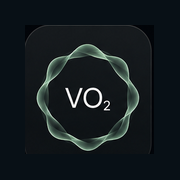
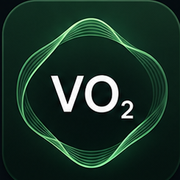
Add files via upload

diff --git a/index.html b/index.html
@@ -8,11 +8,11 @@
   <meta name="apple-mobile-web-app-status-bar-style" content="black-translucent">
   <meta name="apple-mobile-web-app-title" content="VO₂ Breathe">
   <meta name="description" content="Track VO₂ max, train aerobic fitness, and practice performance-focused breathing.">
-  <meta name="vo2-breathe-build" content="7.10.0">
+  <meta name="vo2-breathe-build" content="7.10.1">
   <link rel="manifest" href="./manifest.webmanifest">
-  <link rel="icon" href="./icon-192-v710.png">
-  <link rel="apple-touch-icon" href="./apple-touch-icon-v710.png">
-  <link rel="stylesheet" href="./styles-v7-9.css?v=7.10.0">
+  <link rel="icon" href="./forest-nebula-192.png?v=7.10.1">
+  <link rel="apple-touch-icon" href="./apple-touch-icon.png?v=7.10.1">
+  <link rel="stylesheet" href="./styles-v7-9.css?v=7.10.1">
   <title>VO₂ Breathe</title>
 </head>
 <body>
@@ -576,7 +576,7 @@
       </div>
     </div>
     <div id="toast" class="toast" role="status" aria-live="polite"></div>
-<script src="./app-v7-9.js?v=7.10.0"></script>
+<script src="./app-v7-9.js?v=7.10.1"></script>
 <script>
 if ("serviceWorker" in navigator) {
   window.addEventListener("load", () => navigator.serviceWorker.register("./sw.js").catch(() => {}));

diff --git a/sw.js b/sw.js
@@ -1,5 +1,5 @@
-const CACHE="vo2-breathe-v7-10";
-const ASSETS=["./","./index.html","./styles-v7-9.css?v=7.10.0","./app-v7-9.js?v=7.10.0","./manifest.webmanifest","./icon-192-v710.png","./icon-512-v710.png","./apple-touch-icon-v710.png"];
+const CACHE="vo2-breathe-v7-10-1";
+const ASSETS=["./","./index.html","./styles-v7-9.css?v=7.10.1","./app-v7-9.js?v=7.10.1","./manifest.webmanifest","./forest-nebula-192.png","./forest-nebula-512.png","./apple-touch-icon.png"];
 self.addEventListener("install",e=>{e.waitUntil(caches.open(CACHE).then(c=>c.addAll(ASSETS)));self.skipWaiting();});
 self.addEventListener("activate",e=>{e.waitUntil(caches.keys().then(keys=>Promise.all(keys.filter(k=>k!==CACHE).map(k=>caches.delete(k)))));self.clients.claim();});
 self.addEventListener("fetch",e=>{if(e.request.method!=="GET")return;if(e.request.mode==="navigate"){e.respondWith(fetch(e.request,{cache:"no-store"}).then(r=>{const x=r.clone();caches.open(CACHE).then(c=>c.put("./index.html",x));return r;}).catch(()=>caches.match("./index.html")));return;}e.respondWith(fetch(e.request,{cache:"no-store"}).then(r=>{const x=r.clone();caches.open(CACHE).then(c=>c.put(e.request,x));return r;}).catch(()=>caches.match(e.request)));});

diff --git a/README.md b/README.md
@@ -1,8 +1,12 @@
-# VO₂ Breathe PWA v7.10
+# VO₂ Breathe PWA v7.10.1
 
-Final PWA visual polish:
-- Forest Nebula app icon selected.
-- Larger VO₂ lettering for Home Screen readability.
-- Centered standalone icon with deep forest-space background and restrained Soft Wave glow.
-- New icon filenames force a fresh iOS icon request.
-- Application functionality is unchanged from the working v7.9.2 baseline.
+Icon cleanup release.
+
+- Uses the actual #2 Forest Nebula artwork from the approved concept board.
+- No recreation or reinterpretation of the icon.
+- Only three icon image files remain:
+  - forest-nebula-192.png
+  - forest-nebula-512.png
+  - apple-touch-icon.png
+- Removes all legacy icon PNGs from prior iterations.
+- App logic and UI behavior are unchanged from v7.10.
